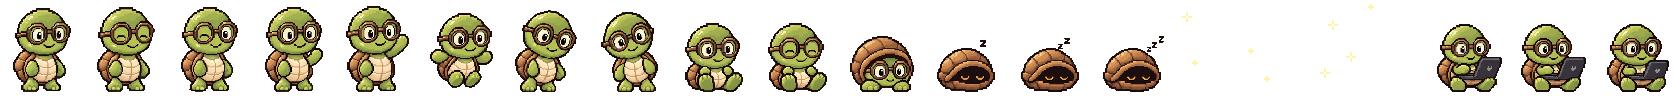
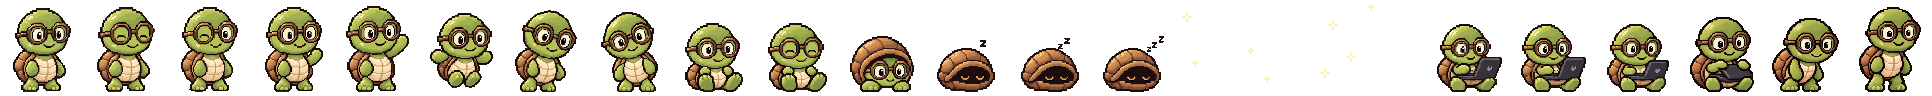
feat: add Buddy laptop-close and rising poses

diff --git a/packaging/buddy/pack-stand-up.swift b/packaging/buddy/pack-stand-up.swift
@@ -1,0 +1,48 @@
+import Foundation
+import ImageIO
+import CoreGraphics
+func read(_ path: String) -> CGImage {
+    CGImageSourceCreateImageAtIndex(CGImageSourceCreateWithURL(URL(fileURLWithPath: path) as CFURL, nil)!, 0, nil)!
+}
+func canvas(_ width: Int, _ height: Int) -> CGContext {
+    let context = CGContext(data: nil, width: width, height: height, bitsPerComponent: 8,
+        bytesPerRow: width * 4, space: CGColorSpaceCreateDeviceRGB(),
+        bitmapInfo: CGImageAlphaInfo.premultipliedLast.rawValue)!
+    context.interpolationQuality = .none
+    context.setShouldAntialias(false)
+    return context
+}
+let args = CommandLine.arguments
+precondition(args.count == 3, "Usage: pack-stand-up.swift source-atlas output-three-cell-strip")
+let source = read(args[1])
+precondition(source.width == 2172 && source.height == 724, "Reinspect atlas for changed dimensions")
+// Measured alpha >= 128 bounds within three transparent-gutter regions.
+let regions = [(0, 724), (724, 1448), (1448, 2172)]
+let bounds = [CGRect(x: 253, y: 174, width: 427, height: 503),
+              CGRect(x: 896, y: 177, width: 446, height: 495),
+              CGRect(x: 1538, y: 106, width: 410, height: 564)]
+let output = canvas(252, 96)
+let factor = 0.15 // head width matches the existing 50–54 pixel heads
+for (index, rect) in bounds.enumerated() {
+    let region = regions[index]
+    precondition(Int(rect.minX) > region.0 && Int(rect.maxX) < region.1)
+    let cell = source.cropping(to: rect)!
+    let w = Int((Double(cell.width) * factor).rounded())
+    let h = Int((Double(cell.height) * factor).rounded())
+    precondition(w < 82 && h < 92)
+    // CoreGraphics' origin is bottom-left; all feet end at image row 91.
+    output.draw(cell, in: CGRect(x: index * 84 + (84-w)/2, y: 4, width: w, height: h))
+}
+let pixels = output.data!.assumingMemoryBound(to: UInt8.self)
+for i in 0..<(252 * 96) {
+    let p = i * 4, alpha = Int(pixels[p+3])
+    if alpha < 128 { for c in 0..<4 { pixels[p+c] = 0 } }
+    else {
+        for c in 0..<3 { pixels[p+c] = UInt8(min(255, (Int(pixels[p+c]) * 255 + alpha/2) / alpha)) }
+        pixels[p+3] = 255
+    }
+}
+let dest = CGImageDestinationCreateWithURL(URL(fileURLWithPath: args[2]) as CFURL, "public.png" as CFString, 1, nil)!
+CGImageDestinationAddImage(dest, output.makeImage()!, nil)
+precondition(CGImageDestinationFinalize(dest))
+print("Packed three transition cells; scale 0.15, foot baseline row 91")

diff --git a/jasper-buddy/src/test/java/dev/jasper/buddy/internal/presentation/BuddySpriteTest.java b/jasper-buddy/src/test/java/dev/jasper/buddy/internal/presentation/BuddySpriteTest.java
@@ -12,6 +12,27 @@ import static org.assertj.core.api.Assertions.assertThat;
 import static org.assertj.core.api.Assertions.assertThatThrownBy;
 
 class BuddySpriteTest {
+    @Test void transitionPosesAppendWithoutChangingExistingArtwork() throws Exception {
+        assertThat(BuddyFrame.values()).hasSize(23);
+        assertThat(BuddyFrame.valueOf("CLOSE_LAPTOP").column()).isEqualTo(20);
+        assertThat(BuddyFrame.valueOf("LOWER_LAPTOP").column()).isEqualTo(21);
+        assertThat(BuddyFrame.valueOf("RISE").column()).isEqualTo(22);
+        BuddySprite sprite = BuddySprite.load();
+        var digest = java.security.MessageDigest.getInstance("SHA-256");
+        try (var in = BuddySprite.class.getResourceAsStream(BuddySprite.RESOURCE)) {
+            var sheet = javax.imageio.ImageIO.read(in);
+            for (int y = 0; y < 96; y++) for (int x = 0; x < 84 * 20; x++) {
+                int pixel = sheet.getRGB(x, y);
+                digest.update(java.nio.ByteBuffer.allocate(4).putInt(pixel).array());
+            }
+        }
+        assertThat(java.util.HexFormat.of().formatHex(digest.digest()))
[1 lines of base64/hex data omitted]
+        for (int i = 19; i < 23; i++) for (int j = i + 1; j < 23; j++)
+            assertThat(pixels(sprite.frame(BuddyFrame.values()[i])))
+                .isNotEqualTo(pixels(sprite.frame(BuddyFrame.values()[j])));
+    }
+
     @Test void pixelArtworkKeepsTheCompanionsLogicalSize() throws Exception {
         try (var in = BuddySprite.class.getResourceAsStream(BuddySprite.RESOURCE)) {
             var sheet = javax.imageio.ImageIO.read(in);

diff --git a/packaging/buddy/append-stand-up.py b/packaging/buddy/append-stand-up.py
@@ -1,0 +1,23 @@
+#!/usr/bin/env python3
+"""Append the measured ImageGen transition cells without re-rendering existing pixels."""
+import sys
+from pathlib import Path
+from PIL import Image
+
+runtime, transitions = map(Path, sys.argv[1:])
+old = Image.open(runtime).convert('RGBA')
+new = Image.open(transitions).convert('RGBA')
+assert old.size in ((1680, 96), (1932, 96)), old.size
+assert new.size == (252, 96), new.size
+for i in range(3):
+    cell = new.crop((i * 84, 0, (i + 1) * 84, 96))
+    left, top, right, bottom = cell.getbbox()
+    assert 0 < left < right < 84 and 0 < top < bottom == 92
+    assert set(cell.getchannel('A').get_flattened_data()) <= {0, 255}
+result = Image.new('RGBA', (1932, 96))
+original = old.crop((0, 0, 1680, 96))
+result.paste(original, (0, 0))
+result.paste(new, (1680, 0))
+assert result.crop((0, 0, 1680, 96)).tobytes() == original.tobytes()
+result.save(runtime)
+print('Appended three cells; original twenty preserved byte-for-byte as decoded RGBA')

diff --git a/packaging/buddy/generate.py b/packaging/buddy/generate.py
@@ -15,7 +15,8 @@ ASE = HERE / "jasper-buddy.ase"
 W, H = 84, 96
 FRAMES = ["idle", "blink", "wink", "wave_a", "wave_b", "hop", "lean_left", "lean_right",
           "sit", "sit_blink", "tuck", "sleep_a", "sleep_b", "sleep_c",
-          "sparkle_a", "sparkle_b", "sparkle_c", "type_a", "type_b", "type_rest"]
+          "sparkle_a", "sparkle_b", "sparkle_c", "type_a", "type_b", "type_rest",
+          "close_laptop", "lower_laptop", "rise"]
 
 def string(text):
     raw = text.encode("utf-8")

diff --git a/jasper-buddy/src/main/java/dev/jasper/buddy/internal/animation/BuddyFrame.java b/jasper-buddy/src/main/java/dev/jasper/buddy/internal/animation/BuddyFrame.java
@@ -13,7 +13,8 @@ public enum BuddyFrame {
     IDLE, BLINK, WINK, WAVE_A, WAVE_B, HOP, LEAN_LEFT, LEAN_RIGHT,
     SIT, SIT_BLINK, TUCK, SLEEP_A, SLEEP_B, SLEEP_C,
     SPARKLE_A, SPARKLE_B, SPARKLE_C,
-    TYPE_A, TYPE_B, TYPE_REST;
+    TYPE_A, TYPE_B, TYPE_REST,
+    CLOSE_LAPTOP, LOWER_LAPTOP, RISE;
 
     public int column() { return ordinal(); }
 }

diff --git a/packaging/buddy/README.md b/packaging/buddy/README.md
@@ -5,8 +5,8 @@ The homepage keeps its existing dimensional illustration.
 Each frame holds 84 × 96 source pixels and paints into a 42 × 48 logical frame; Buddy's scale of 2.5
 displays the companion at 105 × 120. Nearest-neighbour sampling keeps the pixel edges hard.
 
-- [jasper-buddy.ase](jasper-buddy.ase) — editable master for [LibreSprite](https://libresprite.github.io). One RGBA layer, 20 frames of 84 × 96.
-- [jasper-buddy.png](../../jasper-buddy/src/main/resources/dev/jasper/buddy/internal/presentation/jasper-buddy.png) — runtime strip, 1680 × 96, 20 frames left to right in `BuddyFrame` order with no inter-frame padding.
+- [jasper-buddy.ase](jasper-buddy.ase) — editable master for [LibreSprite](https://libresprite.github.io). One RGBA layer, 23 frames of 84 × 96.
+- [jasper-buddy.png](../../jasper-buddy/src/main/resources/dev/jasper/buddy/internal/presentation/jasper-buddy.png) — runtime strip, 1932 × 96, 23 frames left to right in `BuddyFrame` order with no inter-frame padding.
 - [source-atlas.png](../../docs/design/jasper-pixel/source-atlas.png) — the generated poses of the approved pixel character
   ([how it was made](../../docs/design/jasper-pixel/README.md)).
 - [pack-atlas.swift](pack-atlas.swift) — packs that atlas into the runtime strip on macOS: slicing, one shared scale,
@@ -46,6 +46,9 @@ Column order is fixed by [BuddyFrame](../../jasper-buddy/src/main/java/dev/jaspe
 | 17 | `TYPE_A` | Sitting with a laptop in his lap, left hand raised off the keys |
 | 18 | `TYPE_B` | As A, right hand raised instead |
 | 19 | `TYPE_REST` | As A with both hands down, the beat between bursts |
+| 20 | `CLOSE_LAPTOP` | Seated, lowering the laptop lid |
+| 21 | `LOWER_LAPTOP` | Feet planted, laptop lowered out of view |
+| 22 | `RISE` | Legs extending toward standing |
 
 Frames 17–19 are the working animation (A, B, A, B, rest at 250 ms per frame), requested
 by the host through `setWorking(true)`. Jasper requests it while a terminal command runs
@@ -69,7 +72,7 @@ python3 packaging/buddy/generate.py --verify-only
 
 The first command writes the runtime strip from the master, then checks that each master frame matches its PNG cell;
 it never writes the master. `--verify-only` makes the same comparison without writing anything. Both print
-`ok: 20 pixel frames; master and runtime match` on success; otherwise an assertion names what failed: a malformed
+`ok: 23 pixel frames; master and runtime match` on success; otherwise an assertion names what failed: a malformed
 `.ase` (header, frame magic or chunk sizes), a master in another layout (more than one layer, or trimmed, offset or
 linked cels), the frame count, the strip's dimensions, or the first frame, by its `FRAMES` name, whose `.ase` and PNG
 cells differ. Keep the Java enum order, the `FRAMES` order, the master and the runtime PNG synchronized.
@@ -110,3 +113,20 @@ hop raised above it, draws the three spawn sparkles of the earlier 42 × 48 stri
 (`original-sparkle-source.png`) at twice their size, and makes every pixel fully opaque or fully transparent. Runtime
 geometry does not change. See [Buddy maintenance](../../docs/buddy-maintenance.md) for headless image previews and the
 manual native-acceptance boundary.
+
+The three transition poses come from [the stand-up atlas](../../docs/design/jasper-stand-up/source-atlas.png)
+([prompt and provenance](../../docs/design/jasper-stand-up/README.md)). Append them to an existing runtime strip
+without re-rendering its original twenty cells, then synchronize the master:
+
+```sh
+swift packaging/buddy/pack-stand-up.swift docs/design/jasper-stand-up/source-atlas.png /tmp/buddy-transition.png
+python3 packaging/buddy/append-stand-up.py \
+  jasper-buddy/src/main/resources/dev/jasper/buddy/internal/presentation/jasper-buddy.png /tmp/buddy-transition.png
+python3 packaging/buddy/generate.py --import-strip
+python3 packaging/buddy/generate.py --verify-only
+```
+
+The historical atlas packer above writes only twenty cells; follow it with this append step before importing.
+The transition packer uses measured transparent gutters, one shared scale of 0.15, nearest-neighbour sampling,
+binary alpha and the existing foot baseline at row 91. The append step checks opaque bounds and preserves the
+original decoded RGBA pixels exactly. It also accepts a 23-cell strip for reproducible repacking.

diff --git a/docs/design/jasper-stand-up/README.md b/docs/design/jasper-stand-up/README.md
@@ -1,0 +1,17 @@
+# Jasper stand-up source artwork
+
+`source-atlas.png` was generated on 2026-10-24 with the built-in `image_gen.imagegen` tool,
+using `docs/design/jasper-pixel/source-atlas.png` as the character/style reference and
+`transparent_background: true`. The exact prompt is in [prompt.txt](prompt.txt).
+The selected original is unchanged from the generated output:
+`/Users/dustin/.codex/generated_images/01a170a6-c0f7-7902-ba2c-b6d1203ed5ed/exec-dad2d977-5a43-4aa6-8aea-563d5bb9339c.png`.
+
+The 2172 × 724 atlas contains close-laptop, lower-laptop and rise from left to right.
+`packaging/buddy/pack-stand-up.swift` records the measured opaque bounds within its three transparent gutters,
+scales all poses by 0.15 and places their feet on row 91. `append-stand-up.py` appends those cells while preserving
+the original runtime strip's twenty cells. See [reproduction commands](../../../packaging/buddy/README.md).
+
+`sequence-actual.png` shows TYPE_REST, CLOSE_LAPTOP, LOWER_LAPTOP, RISE and IDLE at 84 × 96 per cell;
+`sequence-enlarged.png` shows the same sequence at 4× nearest-neighbour scale. All heads, feet and the laptop
+remain inside their cells. The generated closing pose has a slightly larger head than TYPE_REST; the shared scale
+keeps the rising endpoint close to IDLE in overall height, with all five poses sharing the same ground baseline.
